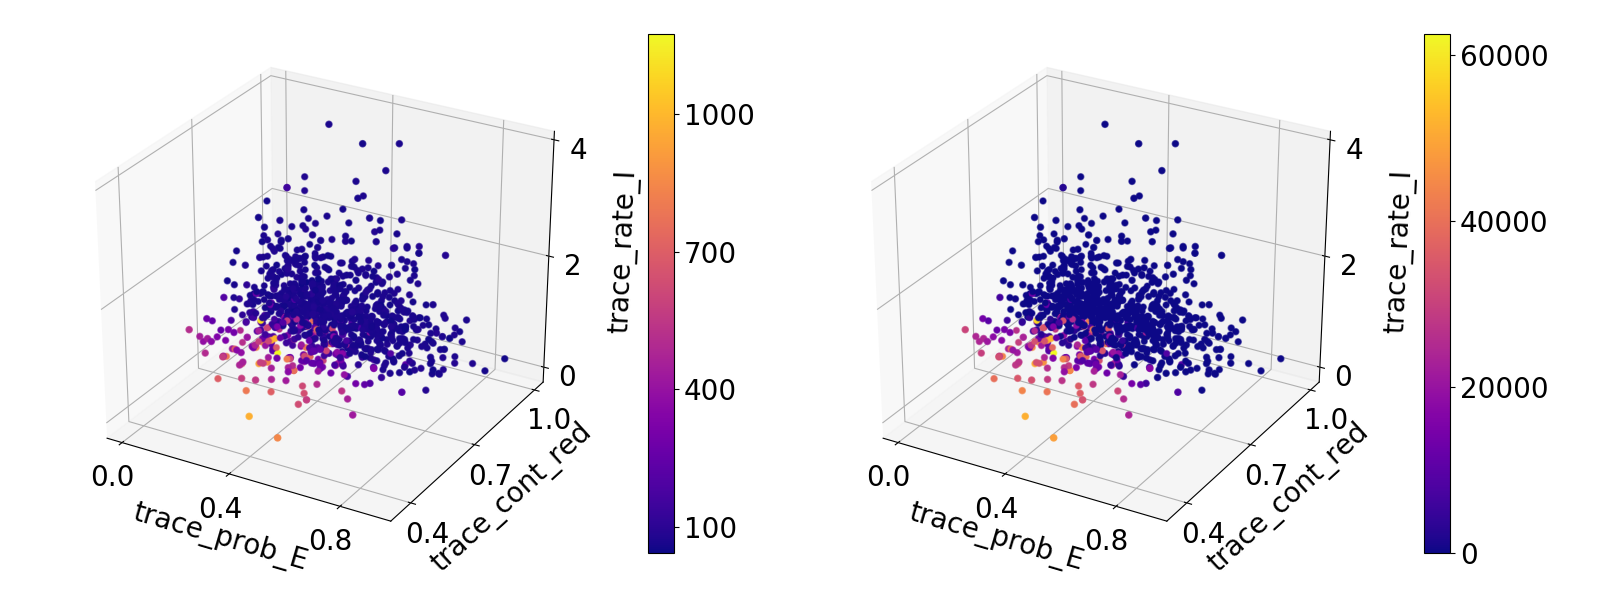
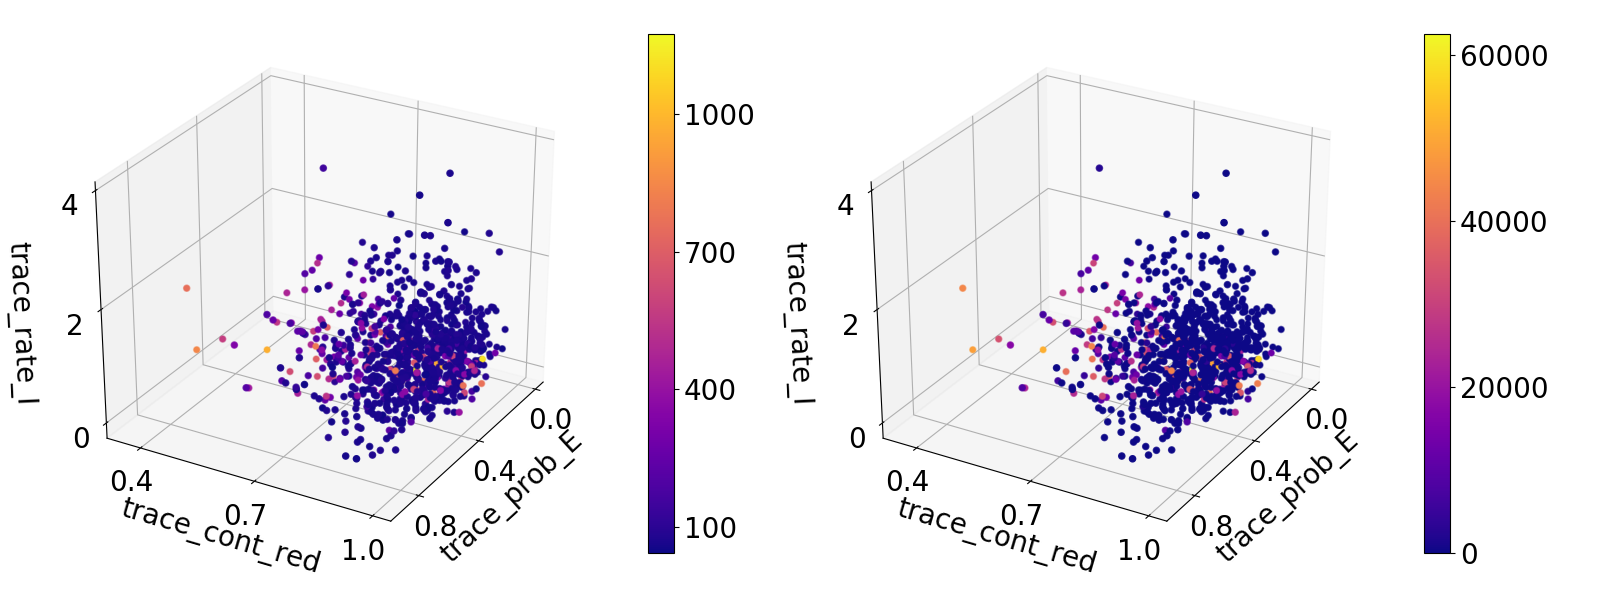
rotate 3d plot

diff --git a/EasyVVUQ/heatmap_CT.py b/EasyVVUQ/heatmap_CT.py
@@ -210,7 +210,7 @@ ax_p.xaxis.labelpad = 10
 ax_p.yaxis.labelpad = 10
 ax_p.zaxis.labelpad = 15
 
-# ax_p.view_init(azim=60)
+ax_p.view_init(azim=30)
 
 ax_e = f.add_subplot(122, xlabel='trace_prob_E', ylabel='trace_cont_red', zlabel='trace_rate_I', projection='3d')
 im_e = ax_e.scatter(xs=trace_prob_E, ys=trace_contact_reduction, zs=trace_rate_I, c=IC_ex_max, cmap='plasma')
@@ -227,7 +227,7 @@ ax_e.xaxis.labelpad = 10
 ax_e.yaxis.labelpad = 10
 ax_e.zaxis.labelpad = 15
 
-# ax_e.view_init(azim=60)
+ax_e.view_init(azim=30)
 
 plt.tight_layout()
 f.savefig('figures/heatmap_CT_MC1000.png')
